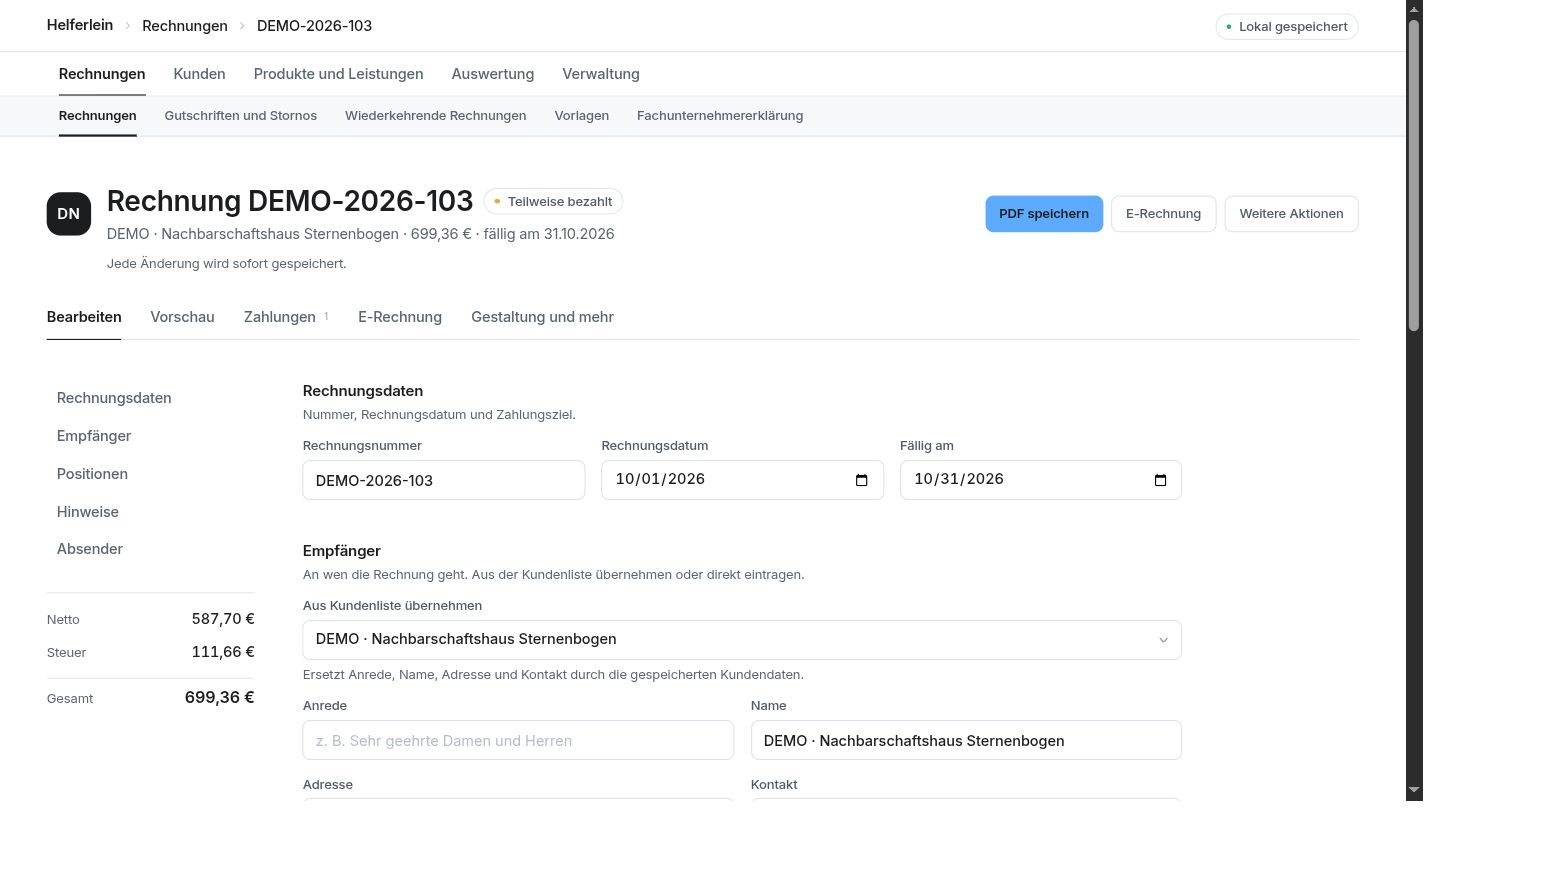
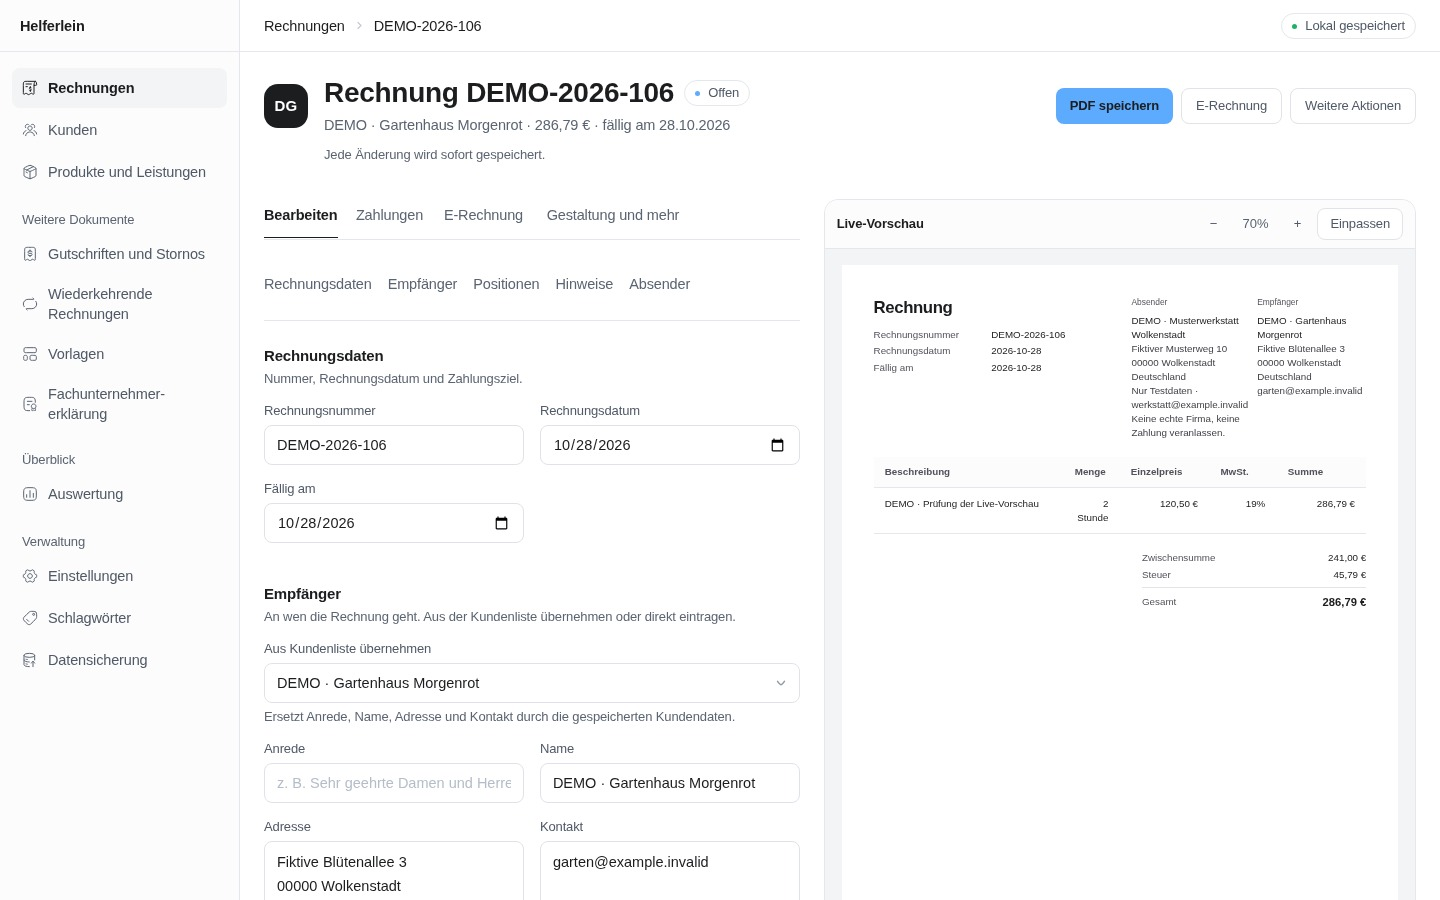
Polish macOS workspace after Claude visual acceptance

diff --git a/src/components/shell/nav.ts b/src/components/shell/nav.ts
@@ -50,7 +50,7 @@ export function navGroups(language: Language): readonly NavGroup[] {
         { key: "credit-notes", href: "/credit-notes", icon: ReceiptDollarIcon, label: text(language, "Gutschriften und Stornos", "Credit notes"), hint: text(language, "Korrekturen zu gestellten Rechnungen", "Corrections to issued invoices") },
         { key: "recurring", href: "/recurring", icon: RepeatIcon, label: text(language, "Wiederkehrende Rechnungen", "Recurring invoices"), hint: text(language, "Rechnungen, die regelmäßig neu entstehen", "Invoices that are created on a schedule") },
         { key: "templates", href: "/templates", icon: LayoutTemplateIcon, label: text(language, "Vorlagen", "Templates"), hint: text(language, "Varianten für das Rechnungslayout", "Variants of the invoice layout") },
-        { key: "fachunternehmer", href: "/fachunternehmer", icon: Certificate01Icon, label: text(language, "Fachunternehmererklärung", "Contractor declaration"), hint: text(language, "Erklärung für Bauvorhaben drucken", "Print a contractor declaration") },
+        { key: "fachunternehmer", href: "/fachunternehmer", icon: Certificate01Icon, label: text(language, "Fachunternehmer\u00ADerklärung", "Contractor declaration"), hint: text(language, "Erklärung für Bauvorhaben drucken", "Print a contractor declaration") },
       ],
     },
     {

diff --git a/src/components/shell/AppShell.tsx b/src/components/shell/AppShell.tsx
@@ -45,7 +45,7 @@ function SidebarLink({ item, current, exact }: { item: NavItem; current: boolean
       )}
     >
       <HugeiconsIcon icon={item.icon} size={16} className={cn("shrink-0", current ? "text-ink" : "text-ink-body")} />
-      <span className="min-w-0 hyphens-auto wrap-anywhere">{item.label}</span>
+      <span className="min-w-0 hyphens-auto break-words">{item.label}</span>
     </Link>
   );
 }
@@ -112,7 +112,7 @@ export function AppShell({ children }: { children: ReactNode }) {
                   {crumbs.map((crumb, index) => {
                     const current = index === crumbs.length - 1;
                     return (
-                      <li key={`${crumb.label}-${index}`} className={cn("flex min-w-0 items-center gap-2.5", !current && "shrink-[2]")}>
+                      <li key={`${crumb.label}-${index}`} className={cn("flex min-w-0 items-center gap-2.5", !current && "shrink-[2] max-sm:hidden")}>
                         <BreadcrumbChevron className={index === 0 ? "lg:hidden" : undefined} />
                         {crumb.href && !current
                           ? <BreadcrumbLink asChild className="max-w-60 text-lg/5"><Link href={crumb.href} title={crumb.label}>{crumb.label}</Link></BreadcrumbLink>

diff --git a/src/app/invoices/[id]/InvoiceEditorClient.tsx b/src/app/invoices/[id]/InvoiceEditorClient.tsx
@@ -457,7 +457,8 @@ export function InvoiceEditorClient({ id }: { id: string }) {
             ))}
           </div>
         )}
-        <span className="font-sans text-base tracking-snug text-ink-body">{de ? "Änderungen erscheinen direkt in der Vorschau." : "Changes appear directly in the preview."}</span>
+        {/* The split workspace already shows the preview, so the hint only accompanies the toggle. */}
+        {!split && <span className="font-sans text-base tracking-snug text-ink-body">{de ? "Änderungen erscheinen direkt in der Vorschau." : "Changes appear directly in the preview."}</span>}
       </div>
 
       <div ref={workspace} className={cn("invoice-workspace grid min-w-0 items-start gap-6", split && "grid-cols-[minmax(0,0.95fr)_minmax(0,1.05fr)]")}>

diff --git a/design-qa.md b/design-qa.md
@@ -1,12 +1,16 @@
 # Designprüfung Helferlein
 
-Stand: 27.10.2026. Folgeauftrag: linke Navigation, Eingaben und Live-Vorschau nebeneinander, zurückhaltende macOS-Anmutung. Grundlage sind die akzeptierten Humaify-/Werknetz-Primitives und die in [design-reference.md](docs/design-reference.md) verlinkten Apple-Richtlinien.
+Stand: 28.10.2026. Folgeauftrag: linke Navigation, Eingaben und Live-Vorschau nebeneinander, zurückhaltende macOS-Anmutung. Grundlage sind die akzeptierten Humaify-/Werknetz-Primitives und die in [design-reference.md](docs/design-reference.md) verlinkten Apple-Richtlinien.
 
 ## Aktueller Prüfstatus
 
-Implementierung und Funktionsprüfung sind abgeschlossen. **Neue Bildaufnahmen, visuelle Abnahme und die vom Nutzer verlangte unabhängige Claude-Abnahme stehen noch aus.** Die Bilder unter `docs/screenshots/` zeigen bislang den früheren horizontalen Entwurf; sie sind kein Nachweis für diese Iteration. Der aktuelle Stand darf nicht mit der früheren visuellen Freigabe gleichgesetzt werden.
+Implementierung, Funktionsprüfung und die unabhängige visuelle Claude-Abnahme sind abgeschlossen. **Claude Opus 5.5 im vorhandenen Team-Abo: ACCEPTED (visual/static, qualified).** Der Reviewer prüfte die korrigierten aktuellen Bilder und den Quellcode nach; es bestehen keine weiteren erforderlichen Befunde für diese Oberflächeniteration. Dies ist keine Freigabe einer produktiven Mac-Installation.
 
-Der eingebettete Browser konnte DOM, Accessibility, Eingaben und tatsächliche Layoutmaße liefern, aber keine Screenshots. Geprüft wurden die dokumentierten Aufnahmewege, ein frischer Tab, eine neue Verbindung und wirksame Viewportwechsel; die Bildaufnahme meldete weiterhin „Unable to capture screenshot“. Es wurden keine alten Bilder als aktuelle Aufnahmen ausgegeben. Die Nachprüfung soll die neuen Ansichten aufnehmen und erst danach die Ergebnisbilder ersetzen.
+Die Bilder unter `docs/screenshots/` sind neue Aufnahmen des aktuellen Produktionsbuilds vom 28.10.2026. Nach dem Ausfall der eingebetteten Screenshot-Funktion genehmigte der Nutzer ausdrücklich einen separaten lokalen Playwright-Browser. Verwendet wurden System-Chromium unter Linux, ein neuer nichtpersistenter BrowserContext und ausschließlich künstliche Testdaten; weder bestehende Browserprofile noch echte Mac-Daten wurden geöffnet. Es gab keine CSS-/DOM-Overrides oder nachgestellte Oberflächen. Mac-Systemschrift, native Fensterleiste und das vom Betriebssystem formatierte Datum sind damit nicht bildlich nachgewiesen.
+
+Die unabhängige Abnahme erfolgte über Claude Code mit `claude-opus-5-5`, `apiKeySource: none`, im bestehenden Abo. Zunächst wurden die Überlappung bei 960px, Schriftgrößen, Navigationslandmarks, Zoom-Ansagen und erste Layoutmessung korrigiert. Die anschließende Bildprüfung fand einen ungünstigen Wortumbruch im Sidebar-Eintrag. Claude korrigierte diesen durch einen gezielten weichen Trennstrich, erhielt den aktuellen Pfad bei 320px und entfernte den doppelten Vorschauhinweis im breiten Arbeitsplatz. Neue Aufnahmen wurden danach erneut unabhängig lesend geprüft und akzeptiert. Das Prüfprotokoll meldet keine Änderung durch den Reviewer.
+
+Aktuelle Bildnachweise: [Rechnungen](docs/screenshots/rechnungen.jpg), [Editor](docs/screenshots/editor.jpg), [Positionen mit rechter Vorschau](docs/screenshots/vorschau.jpg), [schmales Fenster](docs/screenshots/schmal.jpg), [Navigationsmenü](docs/screenshots/menue.jpg), [Kunden](docs/screenshots/kunden.jpg). Das [Aufnahmemanifest](docs/screenshots/manifest.json) enthält Quellbezug, Fenstergrößen und Bildprüfsummen.
 
 ## Geprüfte Abläufe
 
@@ -20,7 +24,7 @@ Produktionsbuild auf `http://127.0.0.1:3128`, ausschließlich fiktive lokale Dat
 6. **Fenstergrößen und Fokus:** Gemessene Breiten 1422, 1280, 1088 und 320 CSS-Pixel bei DPR etwa 0,9. Bei 1280 stehen beide Arbeitsspalten nebeneinander. Bei 1088 wechselt der Arbeitsplatz auf Eingaben/Vorschau. Beim Verkleinern bleibt eine fokussierte Vorschau sichtbar; beim Vergrößern wechselt der Fokus vom verschwindenden Vorschau-Umschalter in deren Scrollbereich. Bei 320 gibt es Menü und Ansichtsumschalter, ohne horizontales Seitenüberlaufen; das Papier passt sich bis ungefähr 30% an. Temporäre Viewportvorgaben wurden zurückgesetzt. Dies war kein physischer Touch-Test.
 7. **Kleines Navigationsmenü:** Das Radix-Sheet zeigt dieselben elf Ziele. Escape schließt es und gibt den Fokus an den Menüauslöser zurück; die ausblendende Animation wurde vor der Fokusprüfung abgewartet.
 8. **Bestehende lange Rechnung:** DEMO-2026-105 enthält weiterhin 18 Mengenpositionen plus zwei Überschriften, `1.150,08 €` netto, `218,52 €` Steuer und `1.368,60 €` gesamt. Hinweistext, beide Fußzeilen und `DEMO-Dokumentation.txt` mit Download-Aktion bleiben vorhanden. Der Vorschau-Scrollbereich erreicht das Ende der etwa 2532px hohen Darstellung; die Fußzeile liegt innerhalb seiner Begrenzung. Kein horizontales Seitenüberlaufen.
-9. **Browsermeldungen:** Keine Warnungen oder Fehler während der geprüften Abläufe.
+9. **Browsermeldungen:** Die frühere eingebettete Funktionsprüfung meldete keine Warnungen oder Fehler. Die neue Aufnahme-Serie enthält keine JavaScript-Ausnahme; Chromium meldete zusätzlich einen einzelnen HTTP-404-Ressourcenabruf. Das ist kein Beleg für einen fehlerhaften Rechnungsablauf, seine Ursache wurde nicht als Anwendungsfehler bestätigt.
 
 ## Technische Prüfungen
 
@@ -30,11 +34,16 @@ Das neu gebaute native Linux-Paket besteht `scripts/smoke-packaged.mjs`: ZUGFeRD
 
 Quellprüfung durch Root und zwei unabhängige Sol-Reviews: einzelne Vorschau, dauerhaft montierte Eingabepanels, lokale Containerqueries, unveränderte Speicher-/Betragslogik und vollständige Druck-Overrides für die neuen Grid-/Sticky-/Scroll-Vorfahren. Die Fokuserhaltung für beide Spalten wurde ergänzt und anschließend über die Oberfläche geprüft.
 
-## Offene Abnahme und Grenzen
+## Normaler Mehrseiten-PDF-Druck
 
-- Neue Screenshots und tatsächlicher Bildvergleich der Sidebar, des Rechnungsarbeitsplatzes und weiterer Seiten.
-- Unabhängige Abnahme durch Claude Opus 5.5 im vorhandenen Abo nach dessen Nutzungslimit-Reset am 28.10.2026 um 00:20 Uhr (Europe/Berlin). Erst danach Abschlussbericht und Telegram-Bilder.
-- Normalen mehrseitigen Druck/PDF mit dem neuen Screenlayout praktisch prüfen; die CSS-Prüfung und der separate archivfeste E-Rechnungs-Export ersetzen diesen Nachweis nicht.
-- Die Mac-Systemschrift wird unter Linux nur als korrekte Font-Fallback-Reihenfolge geprüft. Reales macOS-Look-and-Feel, Gatekeeper, Signierung/Notarisierung und Upgrade mit einer Kopie des tatsächlichen Datenordners bleiben Releaseprüfungen. Keine vollständige Barrierefreiheit oder sichere Produktionsmigration wird behauptet.
+Zusätzlich zum separaten archivfesten E-Rechnungs-Export wurden neun normale Chromium-PDFs mit den produktiven Druck-CSS-Regeln erzeugt: Classic, Modern und Minimal, jeweils eingepasst, bei 150 Prozent Bildschirmzoom und aus der 840px breiten Eingaben-Ansicht mit auf dem Bildschirm versteckter Vorschau. Die lange Schema-1-Testrechnung erhielt ausschließlich im getrennten Testbrowser ein synthetisches DEMO-Logo. Der Druck verwendet dieselben Optionen `printBackground` und `preferCSSPageSize` wie Electron; er lief über Playwright `page.pdf`, nicht über das native Electron-Druckfenster.
 
-final result: functional checks passed; visual and Claude acceptance pending
+Alle neun PDFs umfassen sechs A4-Seiten. Sämtliche 18 Mengenpositionen plus zwei Gliederungszeilen, vollständige Hinweise, `1.368,60 €` Gesamtbetrag und beide Fußzeilen sind enthalten; keine Editor-/Navigationsreste. Innerhalb jeder Vorlage sind alle sechs gerenderten Seiten zwischen Einpassen, 150 Prozent und versteckter Vorschau jeweils pixelidentisch. Alle 18 Vorlagenseiten wurden visuell geprüft: Logo, Tabellenfortsetzungen, Summen und Ende ohne abgeschnittene Inhalte oder Überlappungen. Claude sichtete zusätzlich sieben repräsentative Seiten und die vollständige Hash-/Inhaltsprüfung. Vorhandene lange Kontaktzeilen und die große Zeilenhöhe der Rechnungsvorlagen wurden nicht umgestaltet.
+
+## Verbleibende Releaseprüfungen
+
+- Reale macOS-Systemschrift, Fensterleiste, Datumsformat, Trackpad/Scrollverhalten und native Menü-Vergrößerung auf einem echten Mac prüfen.
+- Das native Electron-Druckfenster beziehungsweise der Druckdialog des Ziel-Mac ist durch die Chromium-PDF-Prüfung nicht getestet.
+- Gatekeeper, Signierung/Notarisierung und Upgrade mit einer Kopie des tatsächlichen Datenordners bleiben vor produktiver Installation erforderlich. Keine vollständige Barrierefreiheit oder sichere Produktionsmigration auf dem Zielgerät wird behauptet. Die tatsächlichen Daten des installierten Macs wurden nicht verändert.
+
+final result: functional and Chromium print checks passed; independent Claude visual/static acceptance passed (qualified); physical Mac and release acceptance pending
